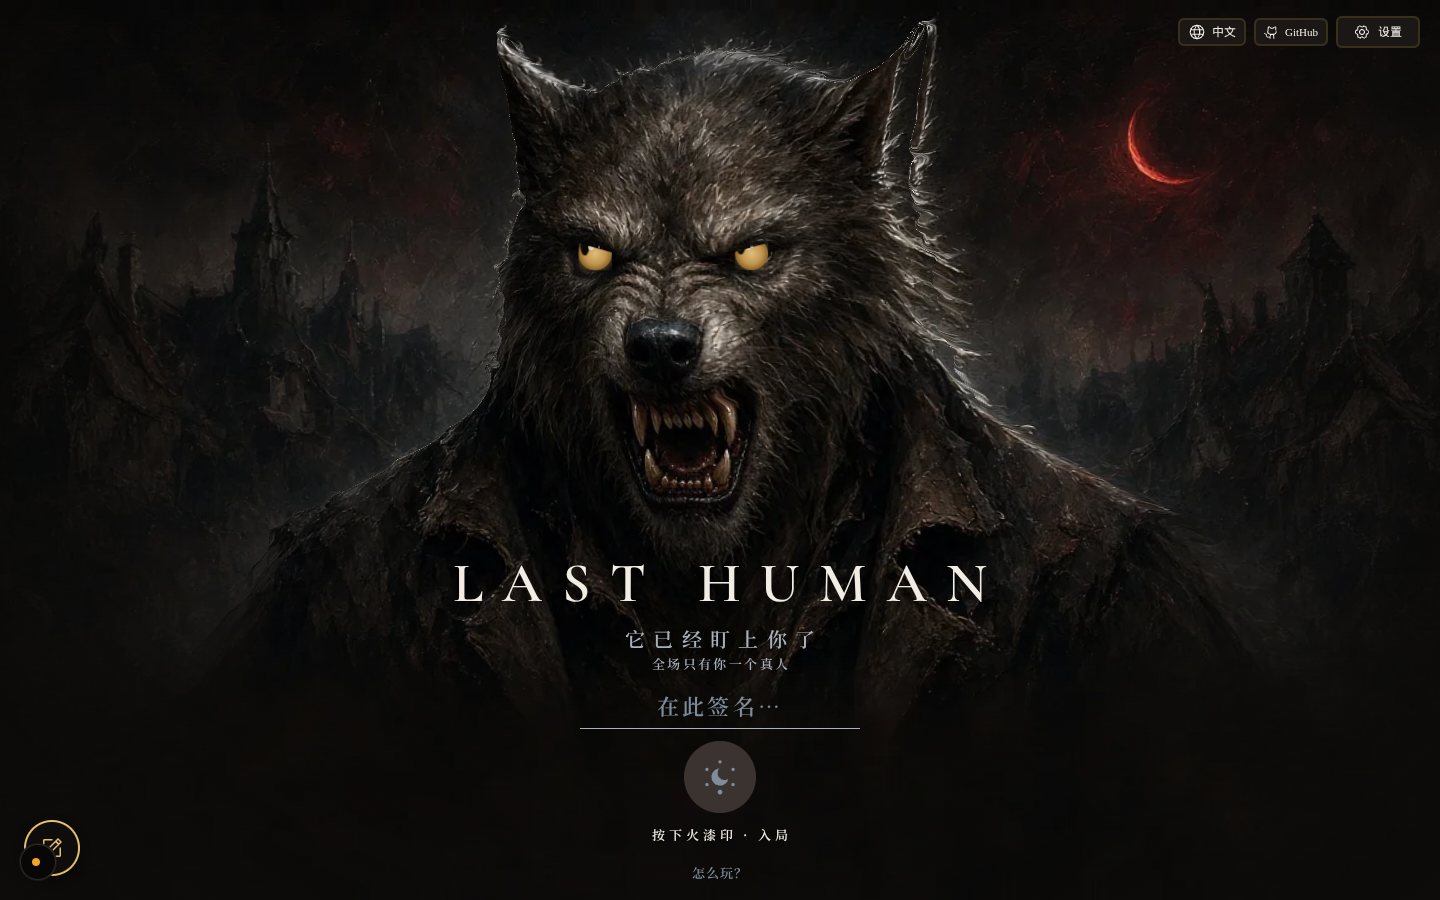
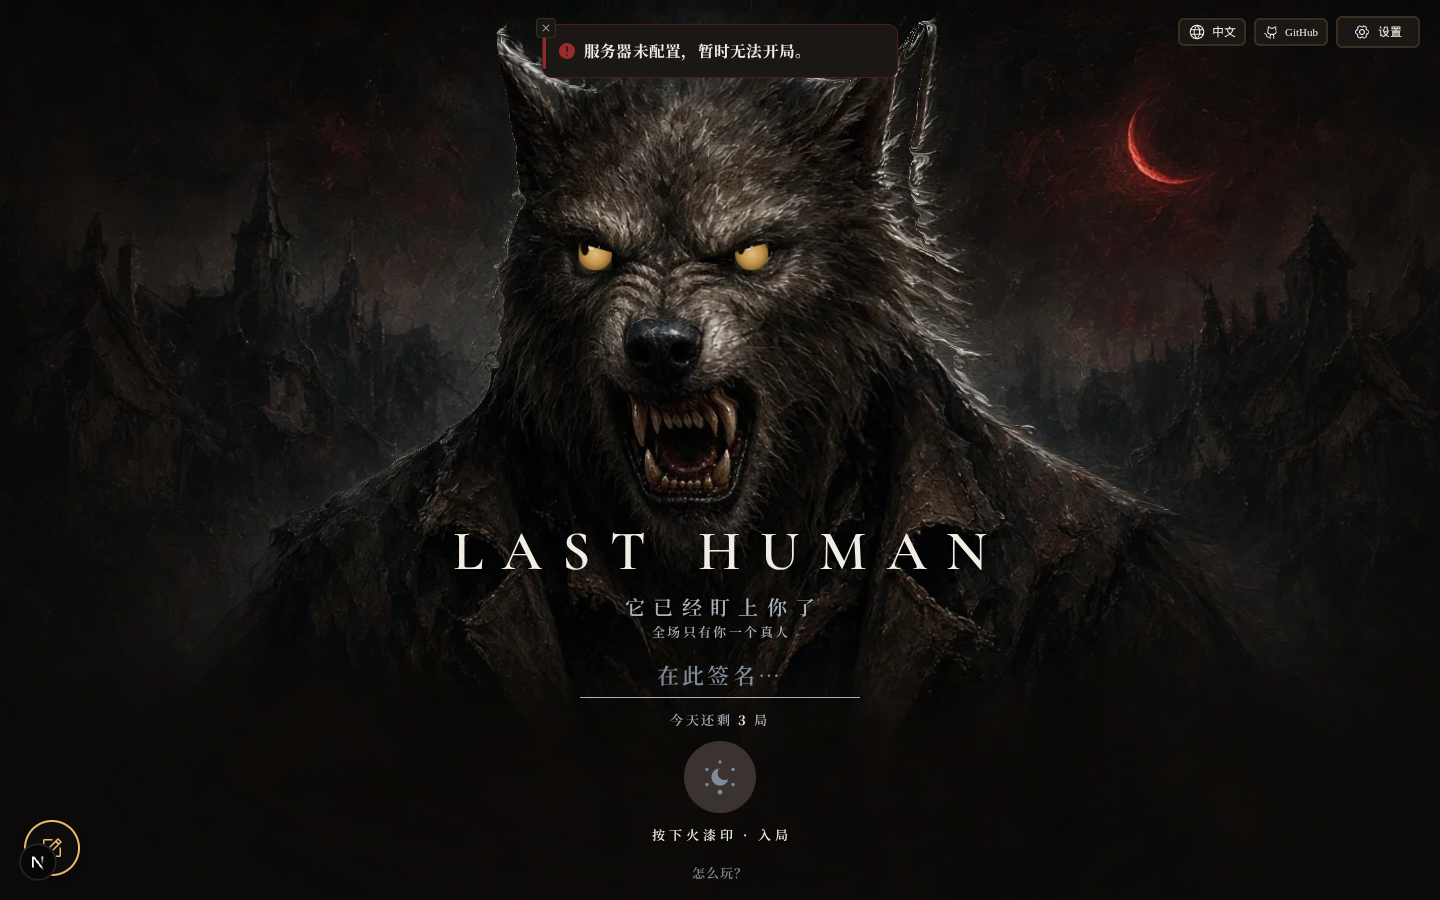
Show the wolf photo first and keep the cover form still.
Defer the depth texture and WebGL until after first idle, crossfade the canvas over the static image, and freeze the head while the signature line is focused.

Changed region(s): [[0.4375, 0.5911, 0.6875, 0.8089], [0.375, 0.0311, 0.5938, 0.0933], [0.3125, 0.5911, 0.4375, 0.6844]]

diff --git a/src/components/home/WolfCover.tsx b/src/components/home/WolfCover.tsx
@@ -34,7 +34,9 @@ function useWolfHead(
 ) {
   const targetRef = useRef({ x: 0, y: 0 });
   const currentRef = useRef({ x: 0, y: 0 });
+  const pointerRef = useRef({ x: 0, y: 0 });
   const reducedRef = useRef(false);
+  const pausedRef = useRef(false);
   const kickRef = useRef<() => void>(() => {});
   const orientationCleanupRef = useRef<(() => void) | null>(null);
 
@@ -111,13 +113,26 @@ function useWolfHead(
       });
     };
 
+    let revealed = false;
+    let revealTimer = 0;
+    const reveal = () => {
+      if (revealed || !art || !canvas || reducedRef.current) return;
+      revealed = true;
+      art.dataset.head = "gl";
+      const finish = () => {
+        if (art.dataset.head === "gl") art.dataset.head = "live";
+      };
+      canvas.addEventListener("transitionend", finish, { once: true });
+      revealTimer = window.setTimeout(finish, 500);
+    };
+
     const showFrame = () => {
       if (!renderer || !art || reducedRef.current) return false;
       const rect = art.getBoundingClientRect();
       if (rect.width < 2 || rect.height < 2) return false;
       renderer.resize(rect.width, rect.height, window.devicePixelRatio || 1);
       paint(currentRef.current.x, currentRef.current.y);
-      art.dataset.head = "gl";
+      reveal();
       return true;
     };
 
@@ -176,10 +191,12 @@ function useWolfHead(
 
     const lookAt = (clientX: number, clientY: number) => {
       if (reducedRef.current) return;
-      targetRef.current = {
+      pointerRef.current = {
         x: clamp(clientX / window.innerWidth * 2 - 1, -1, 1),
         y: clamp(clientY / window.innerHeight * 2 - 1, -1, 1),
       };
+      if (pausedRef.current) return;
+      targetRef.current = pointerRef.current;
       kick();
     };
     const onPointerMove = (event: PointerEvent) => lookAt(event.clientX, event.clientY);
@@ -202,16 +219,29 @@ function useWolfHead(
       showFrame();
     });
     if (art) observer.observe(art);
+    let cancelIdle = () => {};
     if (media.matches) {
       restEyes();
       paint(0, 0);
       if (art) art.dataset.head = "static";
-    } else {
-      boot();
+    } else if (art) {
+      art.dataset.head = "static";
+      const start = () => {
+        if (!disposed && !reducedRef.current) boot();
+      };
+      if (typeof window.requestIdleCallback === "function") {
+        const idle = window.requestIdleCallback(start, { timeout: 1000 });
+        cancelIdle = () => window.cancelIdleCallback(idle);
+      } else {
+        const idle = window.setTimeout(start, 0);
+        cancelIdle = () => window.clearTimeout(idle);
+      }
     }
 
     return () => {
       disposed = true;
+      cancelIdle();
+      window.clearTimeout(revealTimer);
       window.cancelAnimationFrame(frame);
       kickRef.current = () => {};
       media.removeEventListener("change", syncReduced);
@@ -235,10 +265,12 @@ function useWolfHead(
       if (orientationCleanupRef.current || reducedRef.current) return;
       const onOrientation = (event: DeviceOrientationEvent) => {
         if (reducedRef.current || event.gamma == null) return;
-        targetRef.current = {
+        pointerRef.current = {
           x: clamp(event.gamma / 30, -1, 1),
           y: clamp(((event.beta ?? 0) - 45) / 30, -1, 1),
         };
+        if (pausedRef.current) return;
+        targetRef.current = pointerRef.current;
         kickRef.current();
       };
       window.addEventListener("deviceorientation", onOrientation);
@@ -261,7 +293,20 @@ function useWolfHead(
     if (coarse) attach();
   }, []);
 
-  return enableOrientation;
+  const setGazePaused = useCallback((paused: boolean) => {
+    const wasPaused = pausedRef.current;
+    pausedRef.current = paused;
+    if (artRef.current) artRef.current.dataset.gazePaused = paused ? "1" : "0";
+    if (paused) {
+      if (!wasPaused) targetRef.current = { ...currentRef.current };
+      return;
+    }
+    if (!wasPaused) return;
+    targetRef.current = { ...pointerRef.current };
+    kickRef.current();
+  }, [artRef]);
+
+  return { enableOrientation, setGazePaused };
 }
 
 function Eye({
@@ -328,7 +373,7 @@ export function WolfCover({
   const leftPupilRef = useRef<HTMLDivElement>(null);
   const rightPupilRef = useRef<HTMLDivElement>(null);
   const chromeRef = useRef<HTMLDivElement>(null);
-  const enableOrientation = useWolfHead(
+  const { enableOrientation, setGazePaused } = useWolfHead(
     artRef,
     canvasRef,
     leftEyeRef,
@@ -347,7 +392,9 @@ export function WolfCover({
       const inset = keyboardInset(window.innerHeight, viewport.height, viewport.offsetTop);
       chrome.style.setProperty("--wolf-keyboard-inset", `${inset}px`);
       const input = chrome.querySelector("input");
-      if (input && document.activeElement === input) {
+      const focused = Boolean(input && document.activeElement === input);
+      setGazePaused(focused || inset > 0);
+      if (focused && input) {
         input.scrollIntoView({ block: "center", inline: "nearest" });
       }
     };
@@ -359,7 +406,7 @@ export function WolfCover({
       viewport.removeEventListener("scroll", sync);
       chrome.style.removeProperty("--wolf-keyboard-inset");
     };
-  }, []);
+  }, [setGazePaused]);
 
   useEffect(() => {
     if (!rulesOpen) return;
@@ -380,7 +427,7 @@ export function WolfCover({
     <section className="wolf-cover" aria-label="LAST HUMAN">
       <link rel="preload" as="image" href={COVER_SRC} type="image/webp" fetchPriority="high" />
       <div className="wolf-cover__stage">
-        <div className="wolf-cover__art" ref={artRef} data-wolf-art="">
+        <div className="wolf-cover__art" ref={artRef} data-wolf-art="" data-head="static">
           <img
             src={COVER_SRC}
             alt={t("welcome.cover.imageAlt")}
@@ -396,7 +443,7 @@ export function WolfCover({
         </div>
       </div>
       <div className="wolf-cover__vignette" />
-      <div className="wolf-cover__chrome" ref={chromeRef}>
+      <div className="wolf-cover__chrome" ref={chromeRef} data-wolf-chrome="">
         <h1 className="wolf-cover__title">
           LAST HUMAN
           <span className="wolf-cover__line">{t("welcome.cover.line")}</span>
@@ -411,7 +458,11 @@ export function WolfCover({
           enterKeyHint="done"
           onChange={(event) => onNameChange(event.target.value)}
           onFocus={(event) => {
+            setGazePaused(true);
             event.currentTarget.scrollIntoView({ block: "center", inline: "nearest" });
+          }}
+          onBlur={() => {
+            setGazePaused(false);
           }}
           onKeyDown={(event) => {
             if (event.key !== "Enter" || event.nativeEvent.isComposing) return;

diff --git a/src/components/home/wolf-cover.css b/src/components/home/wolf-cover.css
@@ -32,7 +32,7 @@
   top: 50%;
   width: max(100%, calc(100dvh * 16 / 9));
   aspect-ratio: 16 / 9;
-  transform: translate3d(-50%, -50%, 0);
+  transform: translate3d(-50%, -50%, 0) scale(var(--wolf-art-scale, 1));
 }
 
 .wolf-cover__art img,
@@ -48,14 +48,16 @@
 .wolf-cover__canvas {
   position: absolute;
   inset: 0;
-  display: none;
+  opacity: 0;
+  transition: opacity 0.32s ease;
 }
 
-.wolf-cover__art[data-head="gl"] .wolf-cover__canvas {
-  display: block;
+.wolf-cover__art[data-head="gl"] .wolf-cover__canvas,
+.wolf-cover__art[data-head="live"] .wolf-cover__canvas {
+  opacity: 1;
 }
 
-.wolf-cover__art[data-head="gl"] > img {
+.wolf-cover__art[data-head="live"] > img {
   visibility: hidden;
 }
 
@@ -400,7 +402,9 @@
 }
 
 @media (prefers-reduced-motion: reduce) {
+  .wolf-cover__canvas,
   .wolf-cover__pupil {
+    transition: none;
     will-change: auto;
   }
 }
